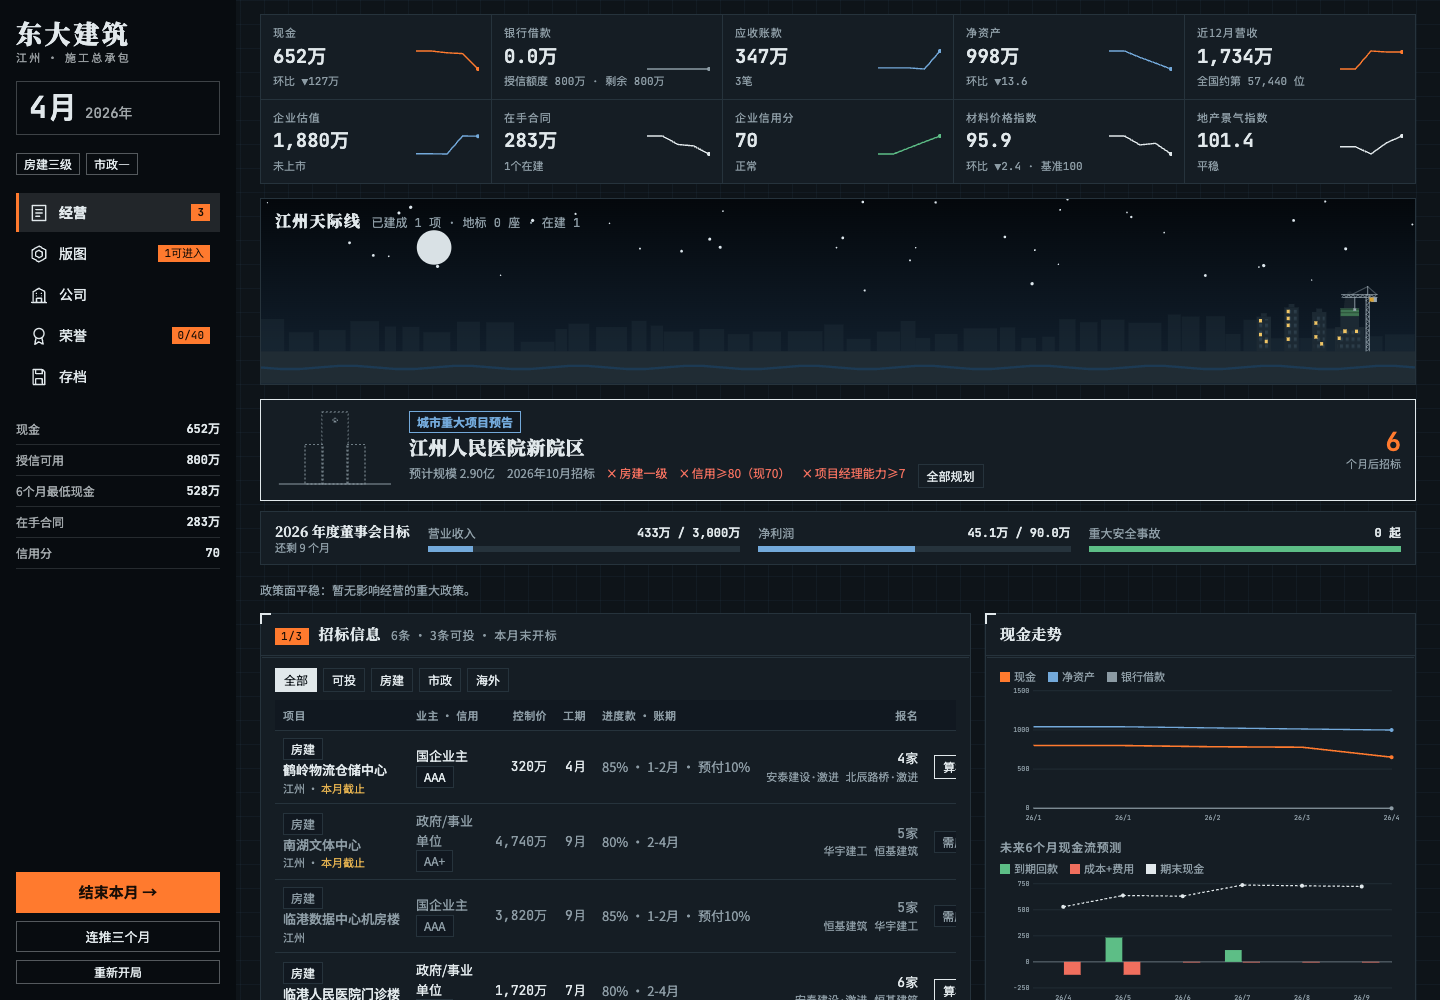
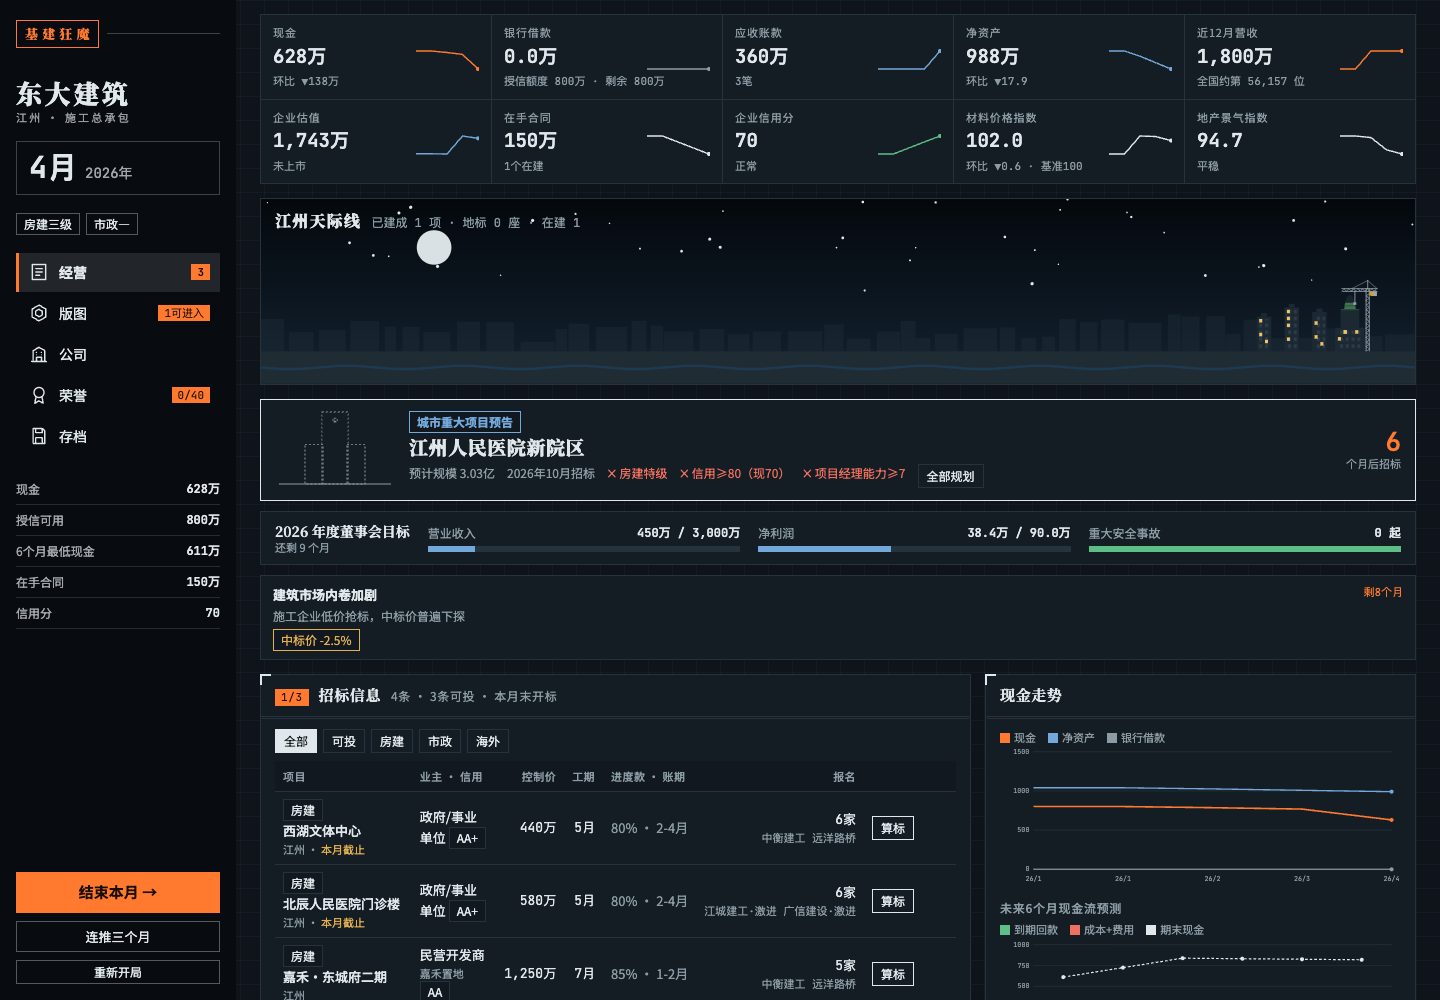
补充基建狂魔线上验收与存档记录

diff --git a/docs/验收记录.md b/docs/验收记录.md
@@ -1,14 +1,47 @@
 # 基建狂魔 · 更名发布验收
 
+验收日期：2026-11-06（America/Los_Angeles）。
+
 - 新仓库：https://github.com/Lynch715/jijian-kuangmo
 - 新 Pages：https://lynch715.github.io/jijian-kuangmo/
-- 发布源：main 分支根目录。
-- 源文件：用户提供的 210,825 字节新版 `dongda-mvp.html`，包含 `heroHTML` 开局横幅。
[1 lines of base64/hex data omitted]
-- `index.html` 的原有样式、脚本和正文逐字保留，仅补标准外壳、favicon 与分享标签。
-- 静态 `<title>` 是「基建狂魔」；运行后原游戏脚本会显示「基建狂魔 · 公司名」，保留源文件行为。
-- 两款海报采用新版真实开局横幅与重新试玩八个月的截图，标准尺寸 1080×1920，高清尺寸 2160×3840。
-- 二维码已经从最终标准图、高清图、768px 和 512px 宽缩图识别，均为新 Pages 地址；见 [二维码记录](qr-check.json)。
-- [海报渲染检查](poster-render-check.json) 已通过，字体和图片加载正常，无文字溢出或控制台报错。
+- 发布源：main 分支根目录；仓库已原地重命名，本地 origin 已同步。
+- 游戏与海报提交：`b63ec92`（游戏更名为基建狂魔，更新海报与说明）。
+- [本次 Pages 构建部署成功记录](https://github.com/Lynch715/jijian-kuangmo/actions/runs/42188076198)。
 
-本次线上新开局、刷新存档、桌面和手机截图正在部署完成后复查。结果将更新于本文件及 [线上检查记录](live-check.json)。
+## 原始文件保持一致
+
[1 lines of base64/hex data omitted]
+
+`index.html` 的原有样式、脚本和正文与该文件逐字相等，仅补标准文档外壳、favicon 与分享标签。静态 `<title>` 是「基建狂魔」；运行后原游戏会自行显示「基建狂魔 · 公司名」，此行为保持不变。OG 标题是「基建狂魔」，OG 描述严格使用副标题。
+
+## 线上功能与存档
+
+- 应用内浏览器优先验收：1440×1000 桌面视口与 390×844 手机视口均正常，整页宽度等于视口宽度，控制台无 warning / error。
+- 应用内浏览器在新网址直接加载上次留下的 2026 年 2 月存档（现金 786 万、在手合同 450 万），刷新前后月份和关键指标一致；没有重开或覆盖该存档。
+- Playwright 在两个隔离会话中检查线上桌面和 iPhone 13 尺寸：均能新开局、推进三个月，结算及随机事件按第一个选项处理；刷新前后完整存档字符串相同。
+- 经营、版图、公司、荣誉、存档五个页面的整页宽度均未超过视口。手机指标区保留源文件原有的横向滑动设计。
+- 首页、OG 海报与 favicon 返回 HTTP 200；无 JavaScript 异常、控制台错误、失败请求或 HTTP 4xx / 5xx。
+- 在隔离浏览器中用上一版提交生成不含公司名称字段的旧存档，再切换至同站点新版页面：自动读取成功，原始存档字符串未被改写。
+
+记录：[线上检查](live-check.json) · [旧存档兼容](legacy-save-check.json) · [线上文件与本地一致性](remote-assets-check.json)。
+
+## 桌面与手机截图
+
+以下为本次线上 Playwright 截图，手机 PNG 为 3 倍像素密度（1170×2532）：
+
+| 桌面 1440×1000 | iPhone 13 尺寸 390×844 |
+| --- | --- |
+| ![基建狂魔桌面截图](screenshots/desktop.png) | ![基建狂魔手机截图](screenshots/iphone13.png) |
+
+应用内浏览器实截：[桌面](screenshots/iab-desktop.jpg) · [手机](screenshots/iab-iphone13.jpg)。新版真实开局画面：[开局截图](../posters/assets/game-start.png) · [标题横幅](../posters/assets/game-hero.png)。
+
+## 海报与二维码
+
+- 两份 HTML/CSS 源文件及四张 PNG 已更新。主标题采用 Noto Serif SC 900，白色「基建」与游戏橙色 `#FF7A2E` 的「狂魔」。
+- 画面来自新版真实开局横幅，以及重新投标、推进八个月后的游戏截图。未更改游戏数值或伪造画面。
+- 标准版均为 1080×1920，高清版均为 2160×3840；字体、图片、版面尺寸和控制台检查通过，见 [渲染记录](poster-render-check.json)。
+- 二维码总边长 378px，Q 级纠错，四周各 4 模块浅色静区。ZXing C++ 从最终标准图、高清图、768px 与 512px 宽缩图均识别为 `https://lynch715.github.io/jijian-kuangmo/`；见 [识别记录](qr-check.json)。
+- 线上实际提供的扫码海报也已重新识别为上述新网址；线上 HTML、favicon、扫码版与封面版的字节均与本地交付文件一致。
+- 无二维码封面版的两个尺寸均未检测到二维码。
+
+验收使用应用内浏览器与 Chrome / Playwright 手机尺寸模拟；未做实体 iPhone、Safari 或实体手机扫码检查。

diff --git a/README.md b/README.md
@@ -19,7 +19,7 @@
 
 进度存在**当前设备、当前浏览器**的 localStorage 中，操作后自动保存，另有三个手动存档位。刷新或关闭页面后，可在同一浏览器继续；清理网站数据或使用隐私模式可能导致存档丢失。
 
-换设备、换浏览器或迁移网站时，请先在「存档 → 备份与迁移」里复制当前存档码，在目标浏览器粘贴读取。存档不会自动跨设备同步，不同浏览器（包括微信内置浏览器与系统浏览器）之间需要用存档码迁移。
+此次更名保留了原有存档键；新网址与原站同属一个站点，同一浏览器可继续读取本地进度。换设备、换浏览器或迁移网站时，请先在「存档 → 备份与迁移」里复制当前存档码，在目标浏览器粘贴读取。存档不会自动跨设备同步，不同浏览器（包括微信内置浏览器与系统浏览器）之间需要用存档码迁移。
 
 ## 宣传海报
 
@@ -51,6 +51,8 @@ python3 -m http.server 18765 --bind 127.0.0.1
 npm install
 npm run posters
 ```
+
+更换二维码或海报文字后，可安装 Python 的 `qrcode[pil]`，执行 `python3 scripts/poster-assets.py --fonts` 更新二维码和字体子集，再重新出图。
 
 `npm run capture` 会在独立浏览器会话中新开局、实际投标并推进八个月，更新 `posters/assets/` 中的游戏截图；不会接触日常浏览器的存档。更换本地服务端口可设置 `GAME_URL` / `POSTER_BASE`。更新页面外壳可运行 `python3 scripts/prepare-site.py`，脚本会检查原始样式、脚本与正文是否一致。
 
